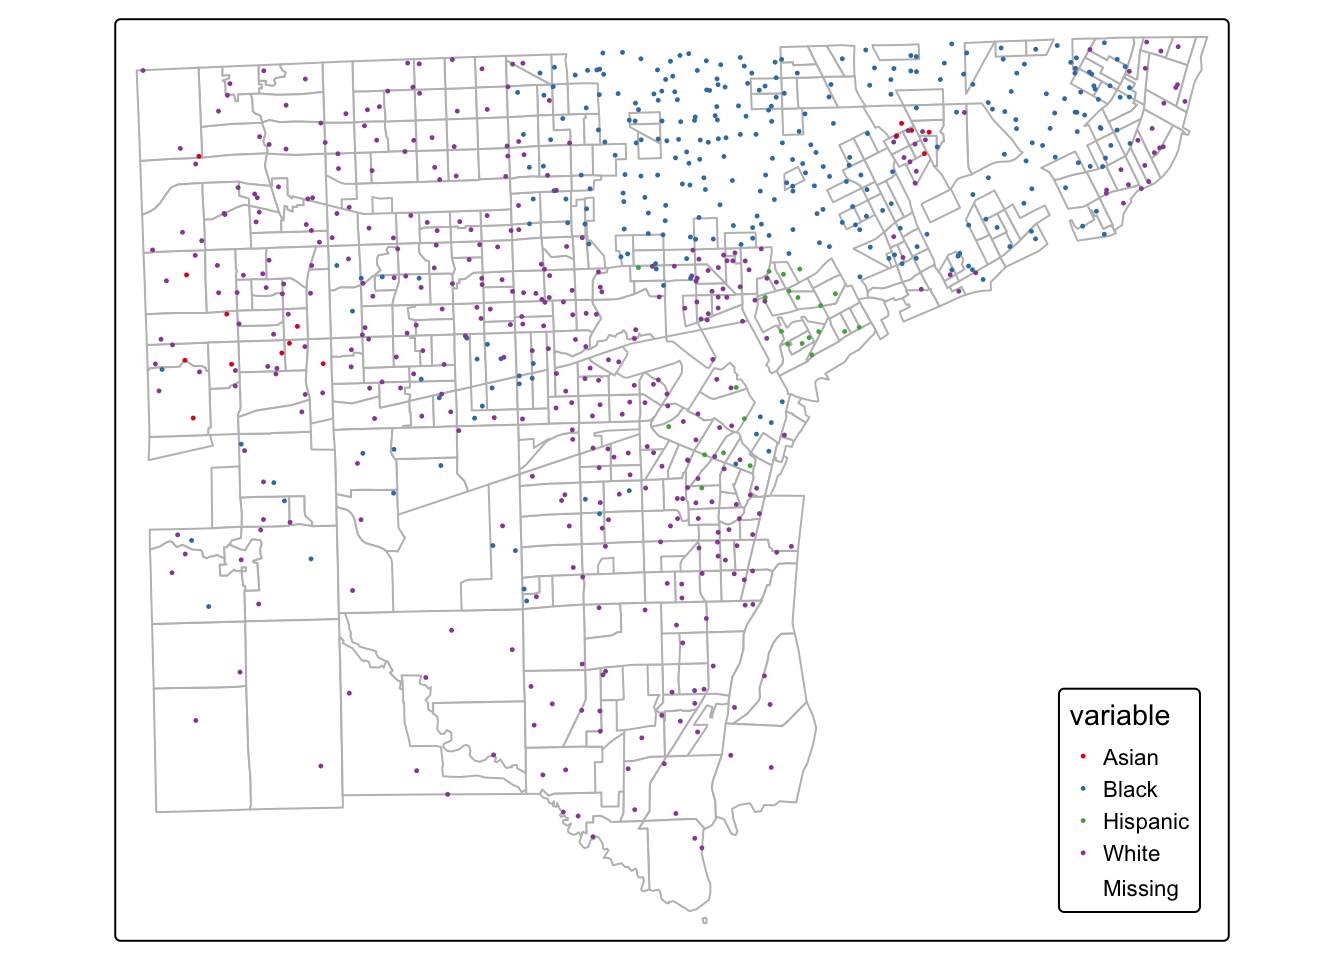
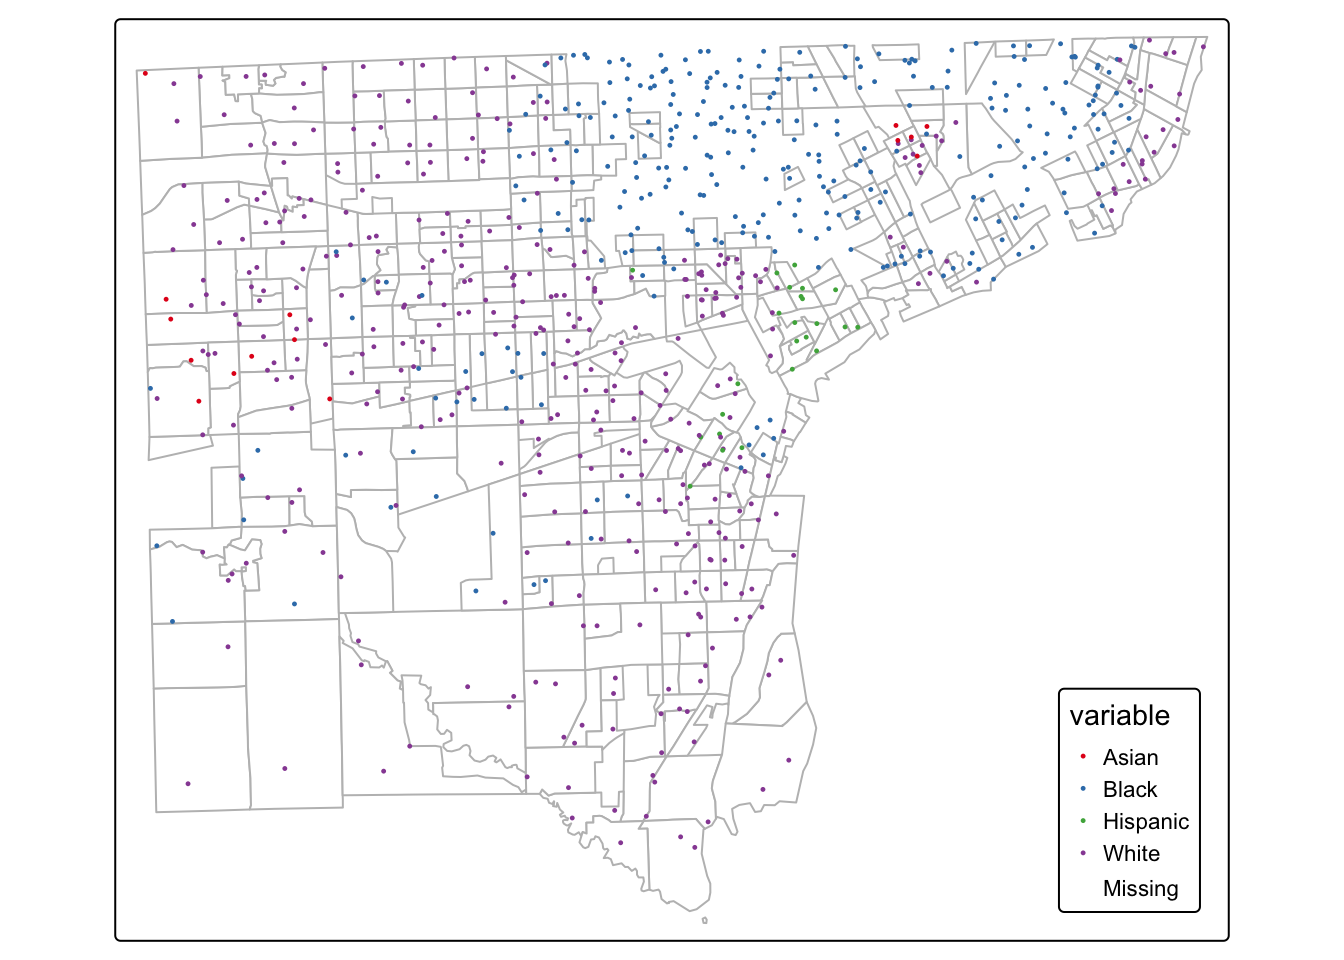
ayayay

diff --git a/docs/portfolio.html b/docs/portfolio.html
@@ -190,6 +190,7 @@ ul.task-list li input[type="checkbox"] {
 </section>
 <section id="race-distribution" class="level2">
 <h2 class="anchored" data-anchor-id="race-distribution">Race Distribution</h2>
+<p>Data taken from the 10-year United States Census (2020). Each dot represents 2000 people.</p>
 <section id="dot-density" class="level3">
 <h3 class="anchored" data-anchor-id="dot-density">Dot Density</h3>
 <div class="cell">
@@ -204,6 +205,7 @@ ul.task-list li input[type="checkbox"] {
 </section>
 <section id="faceted" class="level3">
 <h3 class="anchored" data-anchor-id="faceted">Faceted</h3>
+<p>Density of five main races in Detroit: Hispanic, Black, Native American, White, and Asian.</p>
 <div class="cell">
 <div class="cell-output-display">
 <div>
@@ -233,7 +235,7 @@ ul.task-list li input[type="checkbox"] {
 <h3 class="anchored" data-anchor-id="dissimilarity-index">Dissimilarity Index:</h3>
 <div class="cell">
 <div class="cell-output-display">
-<div class="tabwid"><style>.cl-05614b34{}.cl-055df128{font-family:'Helvetica';font-size:11pt;font-weight:normal;font-style:normal;text-decoration:none;color:rgba(0, 0, 0, 1.00);background-color:transparent;}.cl-055f5f68{margin:0;text-align:left;border-bottom: 0 solid rgba(0, 0, 0, 1.00);border-top: 0 solid rgba(0, 0, 0, 1.00);border-left: 0 solid rgba(0, 0, 0, 1.00);border-right: 0 solid rgba(0, 0, 0, 1.00);padding-bottom:5pt;padding-top:5pt;padding-left:5pt;padding-right:5pt;line-height: 1;background-color:transparent;}.cl-055f5f72{margin:0;text-align:right;border-bottom: 0 solid rgba(0, 0, 0, 1.00);border-top: 0 solid rgba(0, 0, 0, 1.00);border-left: 0 solid rgba(0, 0, 0, 1.00);border-right: 0 solid rgba(0, 0, 0, 1.00);padding-bottom:5pt;padding-top:5pt;padding-left:5pt;padding-right:5pt;line-height: 1;background-color:transparent;}.cl-055f7098{width:0.75in;background-color:transparent;vertical-align: middle;border-bottom: 1.5pt solid rgba(102, 102, 102, 1.00);border-top: 1.5pt solid rgba(102, 102, 102, 1.00);border-left: 0 solid rgba(0, 0, 0, 1.00);border-right: 0 solid rgba(0, 0, 0, 1.00);margin-bottom:0;margin-top:0;margin-left:0;margin-right:0;}.cl-055f7099{width:0.75in;background-color:transparent;vertical-align: middle;border-bottom: 1.5pt solid rgba(102, 102, 102, 1.00);border-top: 1.5pt solid rgba(102, 102, 102, 1.00);border-left: 0 solid rgba(0, 0, 0, 1.00);border-right: 0 solid rgba(0, 0, 0, 1.00);margin-bottom:0;margin-top:0;margin-left:0;margin-right:0;}.cl-055f70a2{width:0.75in;background-color:transparent;vertical-align: middle;border-bottom: 0 solid rgba(0, 0, 0, 1.00);border-top: 0 solid rgba(0, 0, 0, 1.00);border-left: 0 solid rgba(0, 0, 0, 1.00);border-right: 0 solid rgba(0, 0, 0, 1.00);margin-bottom:0;margin-top:0;margin-left:0;margin-right:0;}.cl-055f70a3{width:0.75in;background-color:transparent;vertical-align: middle;border-bottom: 0 solid rgba(0, 0, 0, 1.00);border-top: 0 solid rgba(0, 0, 0, 1.00);border-left: 0 solid rgba(0, 0, 0, 1.00);border-right: 0 solid rgba(0, 0, 0, 1.00);margin-bottom:0;margin-top:0;margin-left:0;margin-right:0;}.cl-055f70ac{width:0.75in;background-color:transparent;vertical-align: middle;border-bottom: 1.5pt solid rgba(102, 102, 102, 1.00);border-top: 0 solid rgba(0, 0, 0, 1.00);border-left: 0 solid rgba(0, 0, 0, 1.00);border-right: 0 solid rgba(0, 0, 0, 1.00);margin-bottom:0;margin-top:0;margin-left:0;margin-right:0;}.cl-055f70ad{width:0.75in;background-color:transparent;vertical-align: middle;border-bottom: 1.5pt solid rgba(102, 102, 102, 1.00);border-top: 0 solid rgba(0, 0, 0, 1.00);border-left: 0 solid rgba(0, 0, 0, 1.00);border-right: 0 solid rgba(0, 0, 0, 1.00);margin-bottom:0;margin-top:0;margin-left:0;margin-right:0;}</style><table data-quarto-disable-processing="true" class="cl-05614b34"><thead><tr style="overflow-wrap:break-word;"><th class="cl-055f7098"><p class="cl-055f5f68"><span class="cl-055df128">NAME</span></p></th><th class="cl-055f7099"><p class="cl-055f5f72"><span class="cl-055df128">BWD</span></p></th><th class="cl-055f7099"><p class="cl-055f5f72"><span class="cl-055df128">AWD</span></p></th><th class="cl-055f7099"><p class="cl-055f5f72"><span class="cl-055df128">HWD</span></p></th></tr></thead><tbody><tr style="overflow-wrap:break-word;"><td class="cl-055f70a2"><p class="cl-055f5f68"><span class="cl-055df128">Ann Arbor</span></p></td><td class="cl-055f70a3"><p class="cl-055f5f72"><span class="cl-055df128">0.413</span></p></td><td class="cl-055f70a3"><p class="cl-055f5f72"><span class="cl-055df128">0.332</span></p></td><td class="cl-055f70a3"><p class="cl-055f5f72"><span class="cl-055df128">0.234</span></p></td></tr><tr style="overflow-wrap:break-word;"><td class="cl-055f70a2"><p class="cl-055f5f68"><span class="cl-055df128">Detroit</span></p></td><td class="cl-055f70a3"><p class="cl-055f5f72"><span class="cl-055df128">0.588</span></p></td><td class="cl-055f70a3"><p class="cl-055f5f72"><span class="cl-055df128">0.714</span></p></td><td class="cl-055f70a3"><p class="cl-055f5f72"><span class="cl-055df128">0.660</span></p></td></tr><tr style="overflow-wrap:break-word;"><td class="cl-055f70a2"><p class="cl-055f5f68"><span class="cl-055df128">Grand Rapids</span></p></td><td class="cl-055f70a3"><p class="cl-055f5f72"><span class="cl-055df128">0.479</span></p></td><td class="cl-055f70a3"><p class="cl-055f5f72"><span class="cl-055df128">0.393</span></p></td><td class="cl-055f70a3"><p class="cl-055f5f72"><span class="cl-055df128">0.532</span></p></td></tr><tr style="overflow-wrap:break-word;"><td class="cl-055f70ac"><p class="cl-055f5f68"><span class="cl-055df128">Lansing</span></p></td><td class="cl-055f70ad"><p class="cl-055f5f72"><span class="cl-055df128">0.375</span></p></td><td class="cl-055f70ad"><p class="cl-055f5f72"><span class="cl-055df128">0.496</span></p></td><td class="cl-055f70ad"><p class="cl-055f5f72"><span class="cl-055df128">0.304</span></p></td></tr></tbody></table></div>
+<div class="tabwid"><style>.cl-7be23394{}.cl-7bdf06a6{font-family:'Helvetica';font-size:11pt;font-weight:normal;font-style:normal;text-decoration:none;color:rgba(0, 0, 0, 1.00);background-color:transparent;}.cl-7be0520e{margin:0;text-align:left;border-bottom: 0 solid rgba(0, 0, 0, 1.00);border-top: 0 solid rgba(0, 0, 0, 1.00);border-left: 0 solid rgba(0, 0, 0, 1.00);border-right: 0 solid rgba(0, 0, 0, 1.00);padding-bottom:5pt;padding-top:5pt;padding-left:5pt;padding-right:5pt;line-height: 1;background-color:transparent;}.cl-7be05218{margin:0;text-align:right;border-bottom: 0 solid rgba(0, 0, 0, 1.00);border-top: 0 solid rgba(0, 0, 0, 1.00);border-left: 0 solid rgba(0, 0, 0, 1.00);border-right: 0 solid rgba(0, 0, 0, 1.00);padding-bottom:5pt;padding-top:5pt;padding-left:5pt;padding-right:5pt;line-height: 1;background-color:transparent;}.cl-7be061ea{width:0.75in;background-color:transparent;vertical-align: middle;border-bottom: 1.5pt solid rgba(102, 102, 102, 1.00);border-top: 1.5pt solid rgba(102, 102, 102, 1.00);border-left: 0 solid rgba(0, 0, 0, 1.00);border-right: 0 solid rgba(0, 0, 0, 1.00);margin-bottom:0;margin-top:0;margin-left:0;margin-right:0;}.cl-7be061eb{width:0.75in;background-color:transparent;vertical-align: middle;border-bottom: 1.5pt solid rgba(102, 102, 102, 1.00);border-top: 1.5pt solid rgba(102, 102, 102, 1.00);border-left: 0 solid rgba(0, 0, 0, 1.00);border-right: 0 solid rgba(0, 0, 0, 1.00);margin-bottom:0;margin-top:0;margin-left:0;margin-right:0;}.cl-7be061ec{width:0.75in;background-color:transparent;vertical-align: middle;border-bottom: 0 solid rgba(0, 0, 0, 1.00);border-top: 0 solid rgba(0, 0, 0, 1.00);border-left: 0 solid rgba(0, 0, 0, 1.00);border-right: 0 solid rgba(0, 0, 0, 1.00);margin-bottom:0;margin-top:0;margin-left:0;margin-right:0;}.cl-7be061f4{width:0.75in;background-color:transparent;vertical-align: middle;border-bottom: 0 solid rgba(0, 0, 0, 1.00);border-top: 0 solid rgba(0, 0, 0, 1.00);border-left: 0 solid rgba(0, 0, 0, 1.00);border-right: 0 solid rgba(0, 0, 0, 1.00);margin-bottom:0;margin-top:0;margin-left:0;margin-right:0;}.cl-7be061f5{width:0.75in;background-color:transparent;vertical-align: middle;border-bottom: 1.5pt solid rgba(102, 102, 102, 1.00);border-top: 0 solid rgba(0, 0, 0, 1.00);border-left: 0 solid rgba(0, 0, 0, 1.00);border-right: 0 solid rgba(0, 0, 0, 1.00);margin-bottom:0;margin-top:0;margin-left:0;margin-right:0;}.cl-7be061f6{width:0.75in;background-color:transparent;vertical-align: middle;border-bottom: 1.5pt solid rgba(102, 102, 102, 1.00);border-top: 0 solid rgba(0, 0, 0, 1.00);border-left: 0 solid rgba(0, 0, 0, 1.00);border-right: 0 solid rgba(0, 0, 0, 1.00);margin-bottom:0;margin-top:0;margin-left:0;margin-right:0;}</style><table data-quarto-disable-processing="true" class="cl-7be23394"><thead><tr style="overflow-wrap:break-word;"><th class="cl-7be061ea"><p class="cl-7be0520e"><span class="cl-7bdf06a6">NAME</span></p></th><th class="cl-7be061eb"><p class="cl-7be05218"><span class="cl-7bdf06a6">BWD</span></p></th><th class="cl-7be061eb"><p class="cl-7be05218"><span class="cl-7bdf06a6">AWD</span></p></th><th class="cl-7be061eb"><p class="cl-7be05218"><span class="cl-7bdf06a6">HWD</span></p></th></tr></thead><tbody><tr style="overflow-wrap:break-word;"><td class="cl-7be061ec"><p class="cl-7be0520e"><span class="cl-7bdf06a6">Ann Arbor</span></p></td><td class="cl-7be061f4"><p class="cl-7be05218"><span class="cl-7bdf06a6">0.413</span></p></td><td class="cl-7be061f4"><p class="cl-7be05218"><span class="cl-7bdf06a6">0.332</span></p></td><td class="cl-7be061f4"><p class="cl-7be05218"><span class="cl-7bdf06a6">0.234</span></p></td></tr><tr style="overflow-wrap:break-word;"><td class="cl-7be061ec"><p class="cl-7be0520e"><span class="cl-7bdf06a6">Detroit</span></p></td><td class="cl-7be061f4"><p class="cl-7be05218"><span class="cl-7bdf06a6">0.588</span></p></td><td class="cl-7be061f4"><p class="cl-7be05218"><span class="cl-7bdf06a6">0.714</span></p></td><td class="cl-7be061f4"><p class="cl-7be05218"><span class="cl-7bdf06a6">0.660</span></p></td></tr><tr style="overflow-wrap:break-word;"><td class="cl-7be061ec"><p class="cl-7be0520e"><span class="cl-7bdf06a6">Grand Rapids</span></p></td><td class="cl-7be061f4"><p class="cl-7be05218"><span class="cl-7bdf06a6">0.479</span></p></td><td class="cl-7be061f4"><p class="cl-7be05218"><span class="cl-7bdf06a6">0.393</span></p></td><td class="cl-7be061f4"><p class="cl-7be05218"><span class="cl-7bdf06a6">0.532</span></p></td></tr><tr style="overflow-wrap:break-word;"><td class="cl-7be061f5"><p class="cl-7be0520e"><span class="cl-7bdf06a6">Lansing</span></p></td><td class="cl-7be061f6"><p class="cl-7be05218"><span class="cl-7bdf06a6">0.375</span></p></td><td class="cl-7be061f6"><p class="cl-7be05218"><span class="cl-7bdf06a6">0.496</span></p></td><td class="cl-7be061f6"><p class="cl-7be05218"><span class="cl-7bdf06a6">0.304</span></p></td></tr></tbody></table></div>
 </div>
 </div>
 <p>Dissimilarity Indices are widely used demographic metrics that measure the evennes with which two distinct groups are distributed across a geography. It ranges from 0 to 1, where a 0 = complete integration and 1 = complete segregation.</p>
@@ -242,7 +244,7 @@ ul.task-list li input[type="checkbox"] {
 <h3 class="anchored" data-anchor-id="interaction-index-p">Interaction Index (P*)</h3>
 <div class="cell">
 <div class="cell-output-display">
-<div class="tabwid"><style>.cl-0569a662{}.cl-05669ecc{font-family:'Helvetica';font-size:11pt;font-weight:normal;font-style:normal;text-decoration:none;color:rgba(0, 0, 0, 1.00);background-color:transparent;}.cl-0567e548{margin:0;text-align:right;border-bottom: 0 solid rgba(0, 0, 0, 1.00);border-top: 0 solid rgba(0, 0, 0, 1.00);border-left: 0 solid rgba(0, 0, 0, 1.00);border-right: 0 solid rgba(0, 0, 0, 1.00);padding-bottom:5pt;padding-top:5pt;padding-left:5pt;padding-right:5pt;line-height: 1;background-color:transparent;}.cl-0567f59c{width:0.75in;background-color:transparent;vertical-align: middle;border-bottom: 1.5pt solid rgba(102, 102, 102, 1.00);border-top: 1.5pt solid rgba(102, 102, 102, 1.00);border-left: 0 solid rgba(0, 0, 0, 1.00);border-right: 0 solid rgba(0, 0, 0, 1.00);margin-bottom:0;margin-top:0;margin-left:0;margin-right:0;}.cl-0567f59d{width:0.75in;background-color:transparent;vertical-align: middle;border-bottom: 1.5pt solid rgba(102, 102, 102, 1.00);border-top: 0 solid rgba(0, 0, 0, 1.00);border-left: 0 solid rgba(0, 0, 0, 1.00);border-right: 0 solid rgba(0, 0, 0, 1.00);margin-bottom:0;margin-top:0;margin-left:0;margin-right:0;}</style><table data-quarto-disable-processing="true" class="cl-0569a662"><thead><tr style="overflow-wrap:break-word;"><th class="cl-0567f59c"><p class="cl-0567e548"><span class="cl-05669ecc">BWI</span></p></th><th class="cl-0567f59c"><p class="cl-0567e548"><span class="cl-05669ecc">AWI</span></p></th><th class="cl-0567f59c"><p class="cl-0567e548"><span class="cl-05669ecc">HWI</span></p></th></tr></thead><tbody><tr style="overflow-wrap:break-word;"><td class="cl-0567f59d"><p class="cl-0567e548"><span class="cl-05669ecc">1.628</span></p></td><td class="cl-0567f59d"><p class="cl-0567e548"><span class="cl-05669ecc">1.967</span></p></td><td class="cl-0567f59d"><p class="cl-0567e548"><span class="cl-05669ecc">1.741</span></p></td></tr></tbody></table></div>
+<div class="tabwid"><style>.cl-7bea9782{}.cl-7be78cea{font-family:'Helvetica';font-size:11pt;font-weight:normal;font-style:normal;text-decoration:none;color:rgba(0, 0, 0, 1.00);background-color:transparent;}.cl-7be8e072{margin:0;text-align:right;border-bottom: 0 solid rgba(0, 0, 0, 1.00);border-top: 0 solid rgba(0, 0, 0, 1.00);border-left: 0 solid rgba(0, 0, 0, 1.00);border-right: 0 solid rgba(0, 0, 0, 1.00);padding-bottom:5pt;padding-top:5pt;padding-left:5pt;padding-right:5pt;line-height: 1;background-color:transparent;}.cl-7be8f3fa{width:0.75in;background-color:transparent;vertical-align: middle;border-bottom: 1.5pt solid rgba(102, 102, 102, 1.00);border-top: 1.5pt solid rgba(102, 102, 102, 1.00);border-left: 0 solid rgba(0, 0, 0, 1.00);border-right: 0 solid rgba(0, 0, 0, 1.00);margin-bottom:0;margin-top:0;margin-left:0;margin-right:0;}.cl-7be8f3fb{width:0.75in;background-color:transparent;vertical-align: middle;border-bottom: 1.5pt solid rgba(102, 102, 102, 1.00);border-top: 0 solid rgba(0, 0, 0, 1.00);border-left: 0 solid rgba(0, 0, 0, 1.00);border-right: 0 solid rgba(0, 0, 0, 1.00);margin-bottom:0;margin-top:0;margin-left:0;margin-right:0;}</style><table data-quarto-disable-processing="true" class="cl-7bea9782"><thead><tr style="overflow-wrap:break-word;"><th class="cl-7be8f3fa"><p class="cl-7be8e072"><span class="cl-7be78cea">BWI</span></p></th><th class="cl-7be8f3fa"><p class="cl-7be8e072"><span class="cl-7be78cea">AWI</span></p></th><th class="cl-7be8f3fa"><p class="cl-7be8e072"><span class="cl-7be78cea">HWI</span></p></th></tr></thead><tbody><tr style="overflow-wrap:break-word;"><td class="cl-7be8f3fb"><p class="cl-7be8e072"><span class="cl-7be78cea">1.628</span></p></td><td class="cl-7be8f3fb"><p class="cl-7be8e072"><span class="cl-7be78cea">1.967</span></p></td><td class="cl-7be8f3fb"><p class="cl-7be8e072"><span class="cl-7be78cea">1.741</span></p></td></tr></tbody></table></div>
 </div>
 </div>
 <p>The interaction index is a metric used to measure the probability of contact or exposure between two distinct groups (such as demographic populations) across residential or social zones.</p>

diff --git a/docs/index.html b/docs/index.html
@@ -149,6 +149,7 @@ ul.task-list li input[type="checkbox"] {
 <section id="research-interests" class="level2">
 <h2 class="anchored" data-anchor-id="research-interests">Research Interests</h2>
 <p>Currently, I work under Dr.&nbsp;Kelly Sutherland in her lab “Form, Function, and Flow in the Plankton,” researching the zooplanktonic phylum Chaetognatha and their reproductive and morphological distribution in the Northern California Current.</p>
+<p>My long-term research interests reflect my education: I want to work with ecosystems (even if not marine) and conserving them. If I could create my own dream job, I would map wide areas of coral reefs, study them, quantify them, and save them.</p>
 
 
 </section>